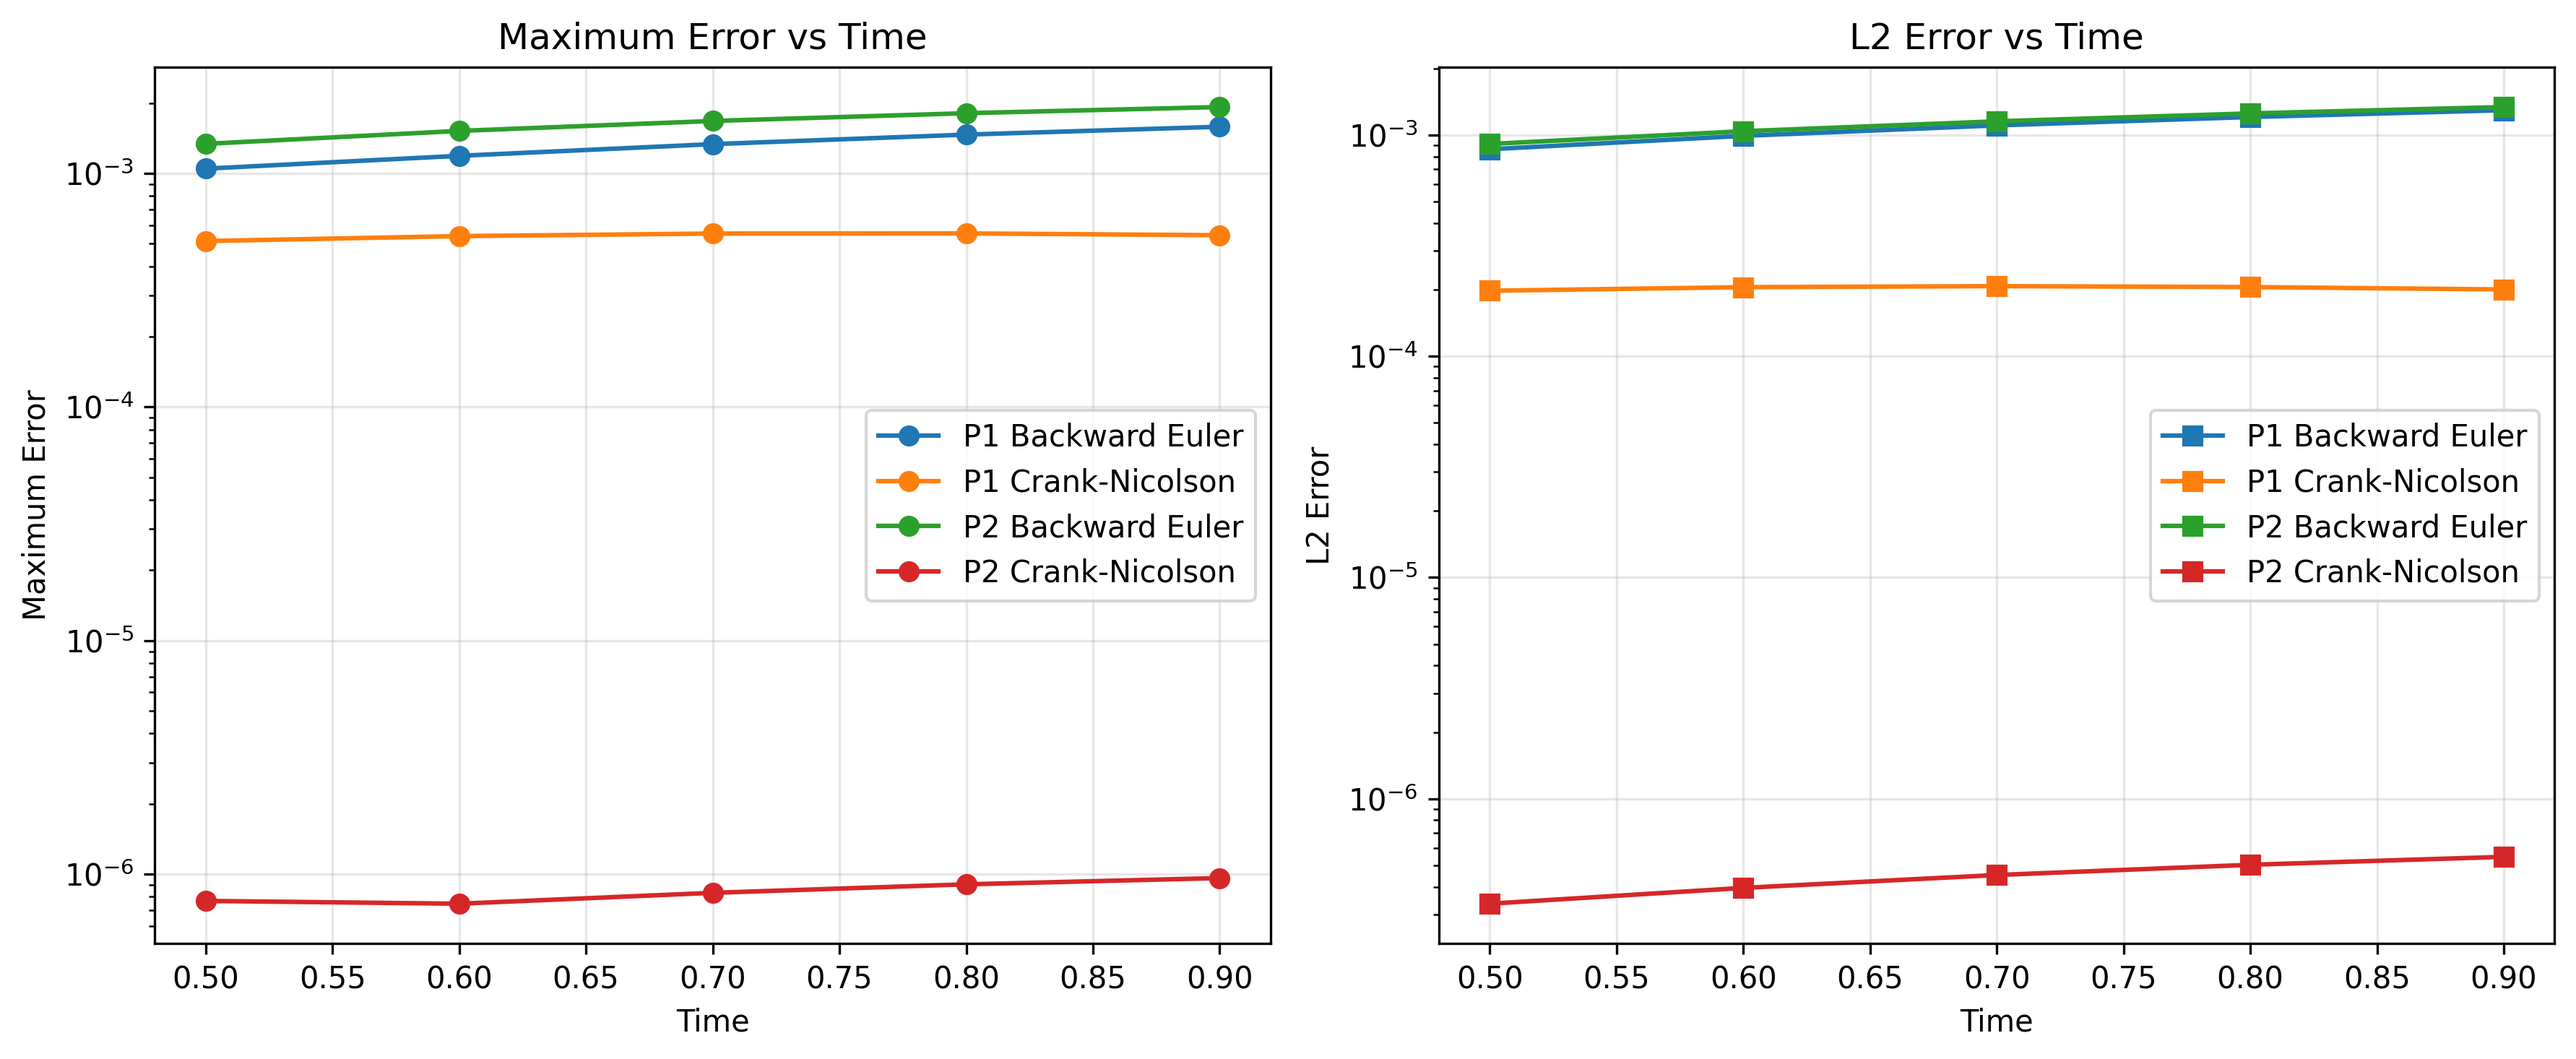
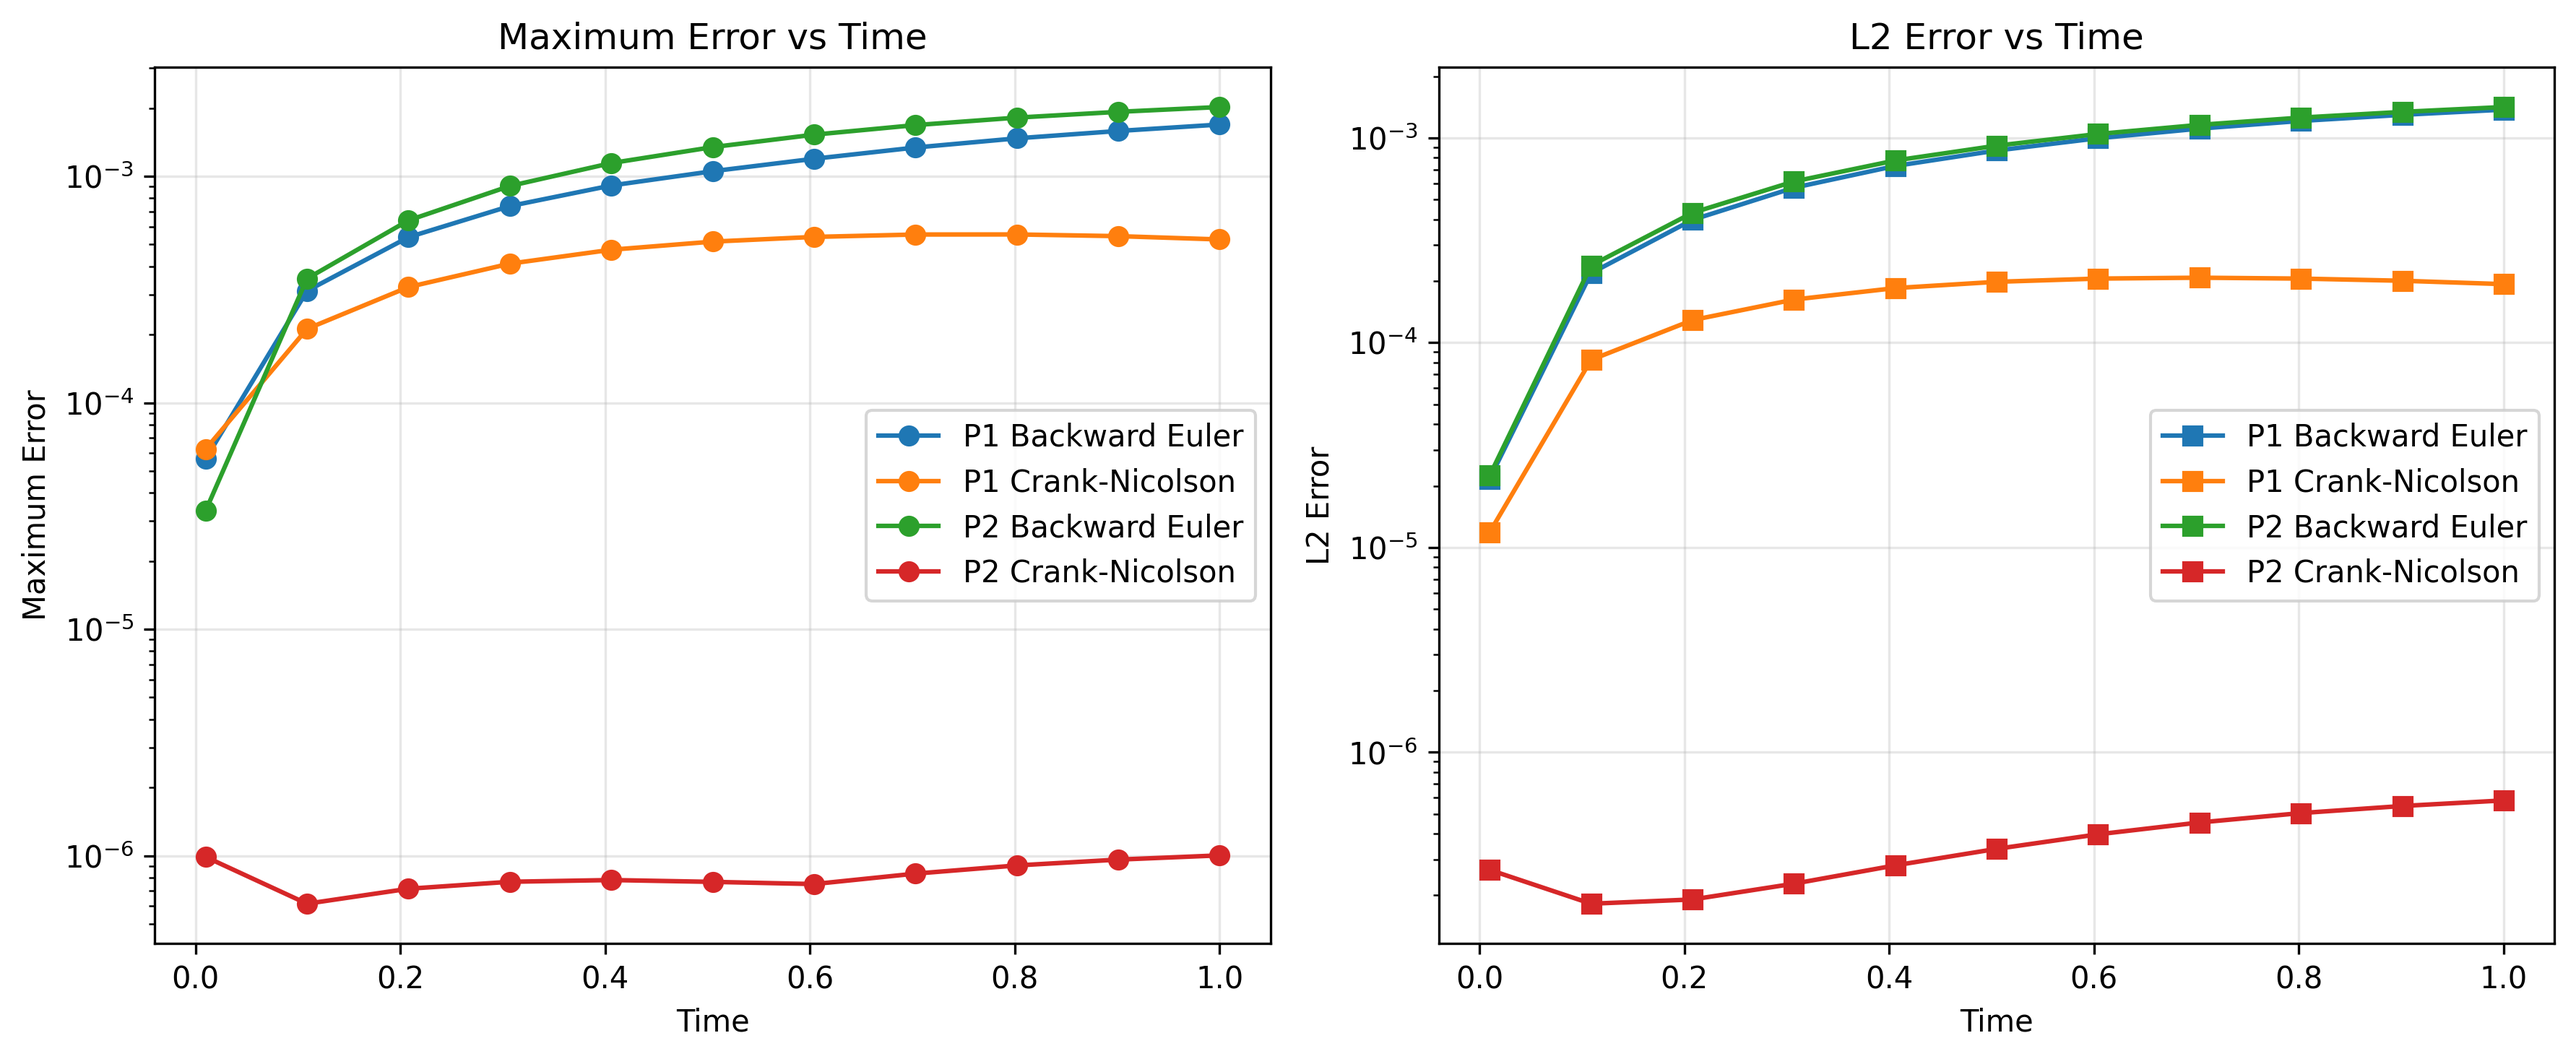
Improved images

diff --git a/code/main.py b/code/main.py
@@ -88,7 +88,7 @@ def test_fem_vs_analytical(pde: BaseBlackScholes,
     axes = axes.flatten()
     
     # Times used for logging
-    times_to_check = np.linspace(0.5, pde.T, 5, endpoint=False)
+    times_to_check = np.linspace(0.01, pde.T, 11, endpoint=True)
     
     # Dictionary to store errors
     errors = {}
